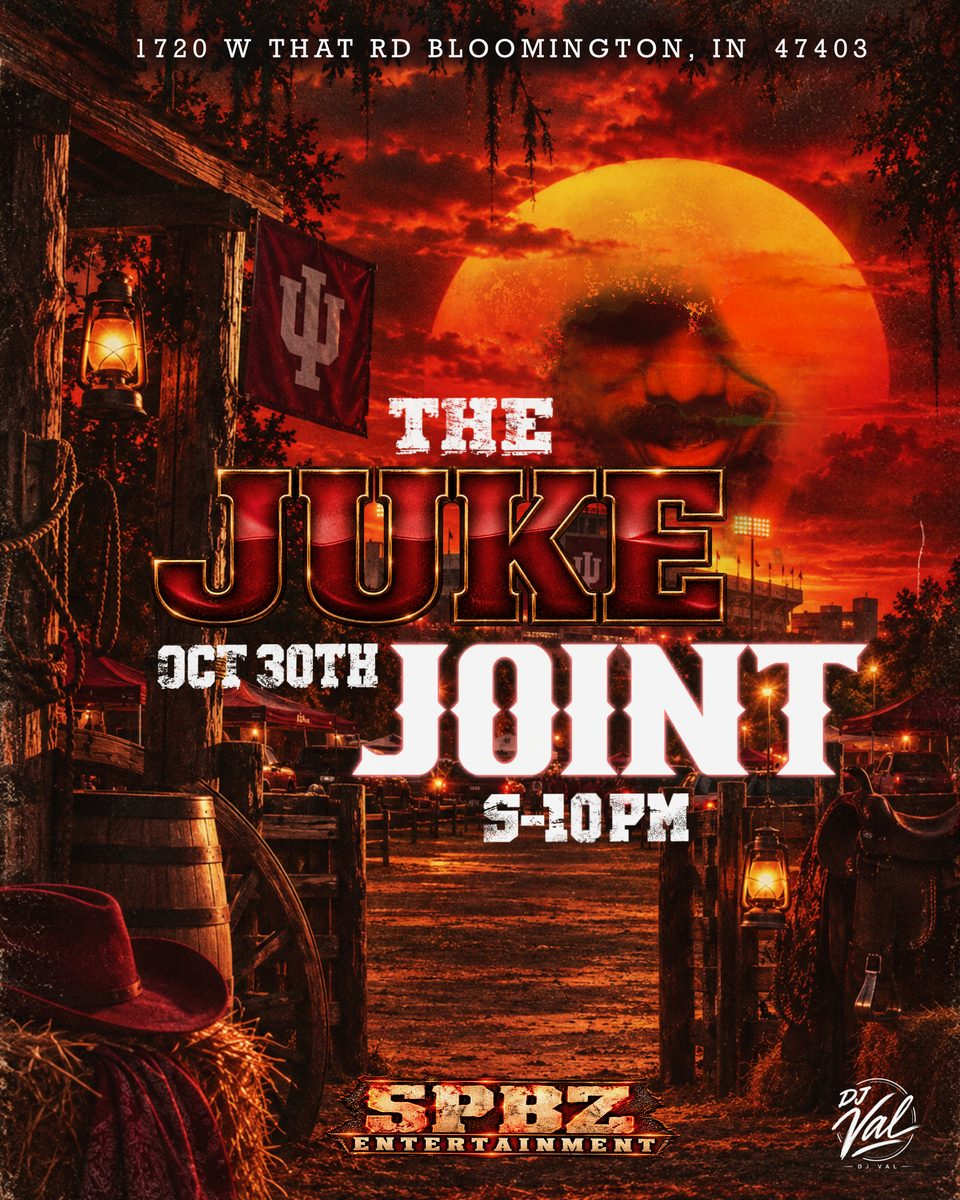
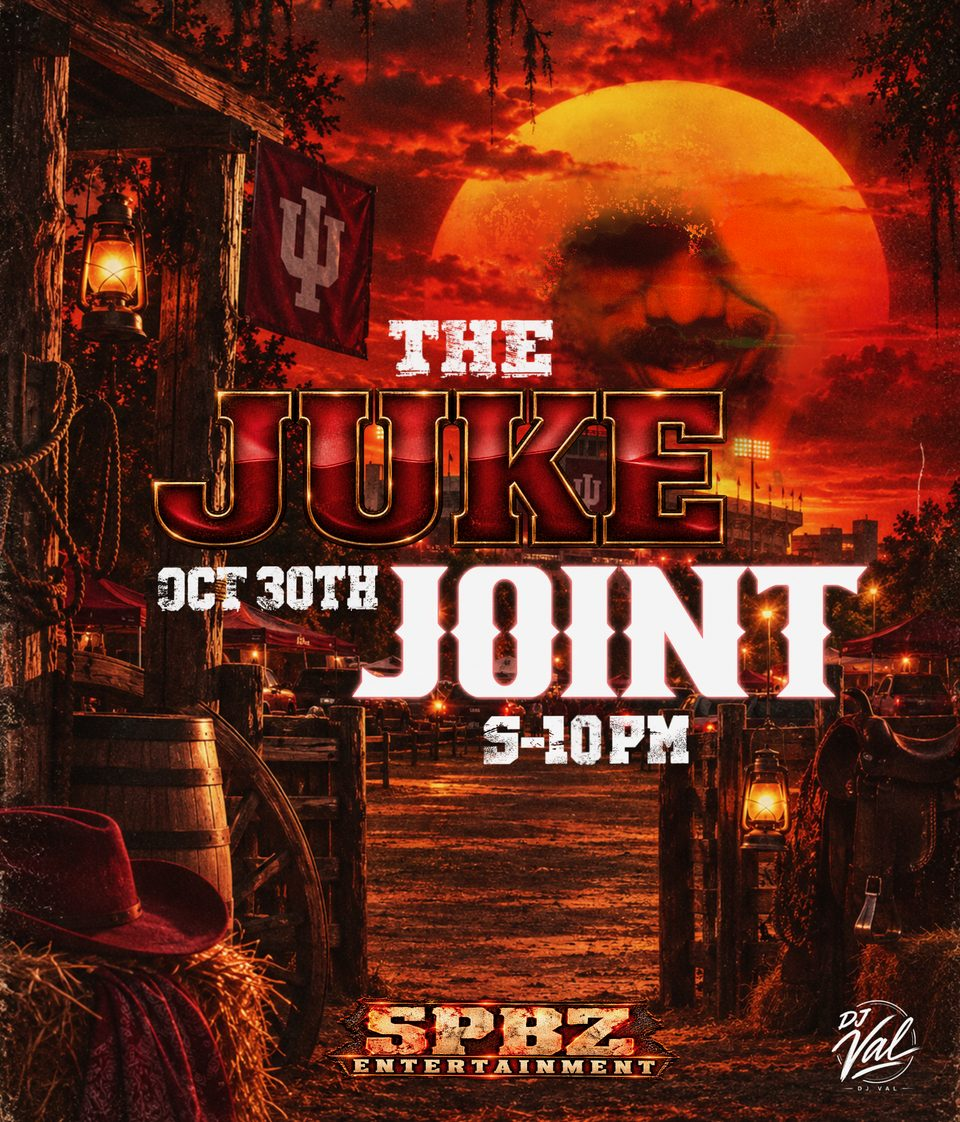
Remove past-event addresses; update fall event count to 10
Crops printed addresses off the Juke Joint and Nightmare flyers and drops
street addresses from past-event captions.

Claude-Session: https://claude.ai/code/session_013ifuA8FVpbchhK71ENMhrq

diff --git a/index.html b/index.html
@@ -247,7 +247,7 @@ footer .legal{width:100%;letter-spacing:.1em;color:#8E9196}
   <section class="wrap stats" aria-label="By the numbers">
     <hr class="hair">
     <div class="stats-grid">
-      <div><div class="stat-num metal">8</div><div class="stat-label">Events this fall</div></div>
+      <div><div class="stat-num metal">10</div><div class="stat-label">Events this fall</div></div>
       <div><div class="stat-num metal">200K+</div><div class="stat-label">Instagram views</div></div>
       <div><div class="stat-num metal">4</div><div class="stat-label">Homecoming nights</div></div>
       <div><div class="stat-num metal">1,000+</div><div class="stat-label">Total attendees</div></div>
@@ -267,7 +267,7 @@ footer .legal{width:100%;letter-spacing:.1em;color:#8E9196}
       <video controls playsinline preload="metadata" poster="assets/halloween-recap-poster.jpg">
         <source src="assets/halloween-recap.mp4" type="video/mp4">
       </video>
-      <figcaption><strong>Nightmare on 5ive Street · Recap</strong><span>Halloween 2026 · 1525 S Rogers St</span></figcaption>
+      <figcaption><strong>Nightmare on 5ive Street · Recap</strong><span>Halloween 2026 · Bloomington</span></figcaption>
     </figure>
     <div class="flyers">
       <figure class="flyer">
@@ -280,11 +280,11 @@ footer .legal{width:100%;letter-spacing:.1em;color:#8E9196}
       </figure>
       <figure class="flyer">
         <img src="assets/flyer-juke-joint.jpg" alt="The Juke Joint flyer, October 30, 5 to 10 PM" loading="lazy" width="960" height="1200">
-        <figcaption><span class="meta">Fri, Oct 30 · 5 to 10 PM</span><h3>The Juke Joint</h3><span class="venue">1720 W That Rd, Bloomington</span></figcaption>
+        <figcaption><span class="meta">Fri, Oct 30 · 5 to 10 PM</span><h3>The Juke Joint</h3><span class="venue">Bloomington</span></figcaption>
       </figure>
       <figure class="flyer">
         <img src="assets/flyer-nightmare-5ive-street.jpg" alt="Nightmare on 5ive Street flyer, Saturday October 31, 10 PM to 2 AM" loading="lazy" width="960" height="1200">
-        <figcaption><span class="meta">Sat, Oct 31 · 10 PM to 2 AM</span><h3>Nightmare on 5ive Street</h3><span class="venue">1525 S Rogers St · $1,000 best costume</span></figcaption>
+        <figcaption><span class="meta">Sat, Oct 31 · 10 PM to 2 AM</span><h3>Nightmare on 5ive Street</h3><span class="venue">$1,000 best costume giveaway</span></figcaption>
       </figure>
     </div>
 
